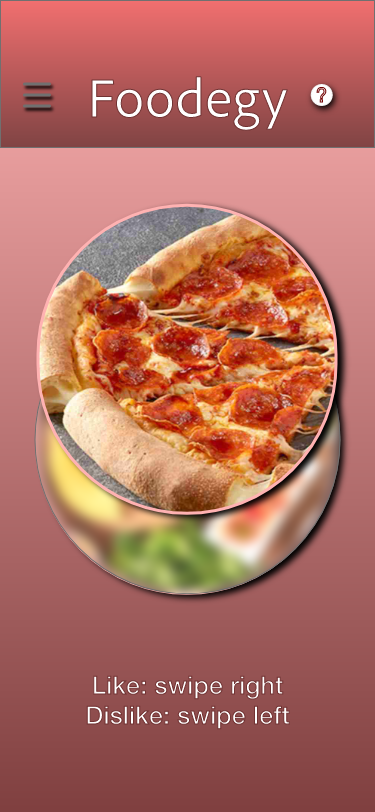
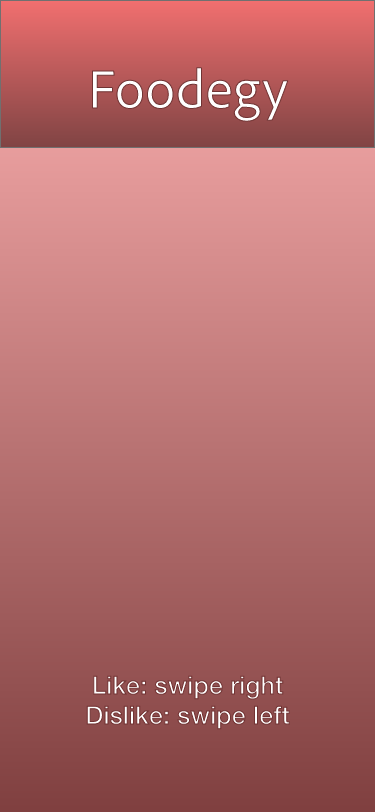
Better version of loading page and main page, test out adding your own components

diff --git a/components/LoadingScreen.js b/components/LoadingScreen.js
@@ -3,52 +3,44 @@ import { Image, ImageBackground, StyleSheet, View, Text } from 'react-native';
 
 function LoadingScreen(props) {
     return (
-        <ImageBackground 
-            style={styles.background}
-            source={require('../assets/uiForApp/loginForApp.png')}
-        >
-            <View style={styles.logoContainer}>
-                <Image style= {styles.logo} source={require('../assets/uiForApp/logoForApp.png')}/>
-                <Text> Pick where to eat with ease </Text>
+        <View style={styles.image}>
+
+            <ImageBackground 
+            source={require("../assets/uiForApp/loadingScreen.png")} 
+            style={styles.image}
+            />
+
+            <View style={styles.titles}>
+
+                <Text style={styles.title}> Foodegy </Text>
+                <Text style={styles.subtitle}> Pick what to eat with ease </Text>
+
             </View>
 
-            <View style={styles.loginButton}></View>
-            <View style={styles.registerButton}></View>
-            <View style={styles.guestButton}></View>
-
-        </ImageBackground>
+        </View>
     );
 }
 
 const styles = StyleSheet.create({
-    background: {
-        flex: 1,
-        justifyContent: "flex-end",
-        alignItems: "center",
+    titles: {
+      top: '30%',
+      width: '100%',
+      alignItems: 'center'
     },
-    loginButton: {
-        width: "100%",
-        height: 70,
-        backgroundColor: '#fc5c65',
+    title: {
+      fontSize: 50,
+      fontWeight: '500',
+      color: '#fff'
     },
-    registerButton: {
-        width: "100%",
-        height: 70,
-        backgroundColor: '#4ecdc4',
+    subtitle: {
+      fontSize: 16,
+      color: '#5c5e62',
     },
-    logo: {
-        width: 100,
-        height: 100,
-    },
-    logoContainer: {
-        position: "absolute",
-        top: 200,
-        alignItems: "center",
-    },
-    guestButton: {
-        width: "100%",
-        height: 70,
-        backgroundColor: 'lightblue',
+    image: {
+      width: "100%",
+      height: "100%",
+      resizeMode: "cover",
+      position: 'absolute',
     }
 });
 

diff --git a/App.js b/App.js
@@ -1,19 +1,15 @@
 import { StatusBar } from 'expo-status-bar';
 import React, { useState } from 'react';
-import { StyleSheet, Text, View } from 'react-native';
-import FirebaseUtils from './components/FirebaseUtils'
-import LoadingScreen from './components/LoadingScreen';
+import { StyleSheet, Text, View, ImageBackground } from 'react-native';
+import FirebaseUtils from './components/FirebaseUtils';
+import RestaurantList from './components/RestaurantList';
 import MainScreen from './components/MainScreen';
-import RestaurantList from './components/RestaurantList'
+import LoadingScreen from './components/LoadingScreen';
 
 export default function App() {
   FirebaseUtils.init();
   return (
-    <View style={styles.container}>
-      <Text>Open up App.js to start working on your app!</Text>
-      <RestaurantList></RestaurantList>
-      <StatusBar style="auto" />
-  </View>
+    <LoadingScreen />
   );
 }
 

diff --git a/components/MainScreen.js b/components/MainScreen.js
@@ -1,14 +1,15 @@
 import React from 'react';
-import { Image, StyleSheet, View } from 'react-native';
+import { Image, StyleSheet, View, ImageBackground } from 'react-native';
 
 function MainScreen(props) {
     return (
-        <View style={styles.container}>
-            <Image 
-            resizeMode="contain"
-            style= {styles.image} 
-            source={require('../assets/uiForApp/mainScreen.png')} 
+        <View style={styles.image}>
+
+            <ImageBackground 
+            source={require("../assets/uiForApp/mainScreen.png")} 
+            style={styles.image}
             />
+
         </View>
     );
 }
